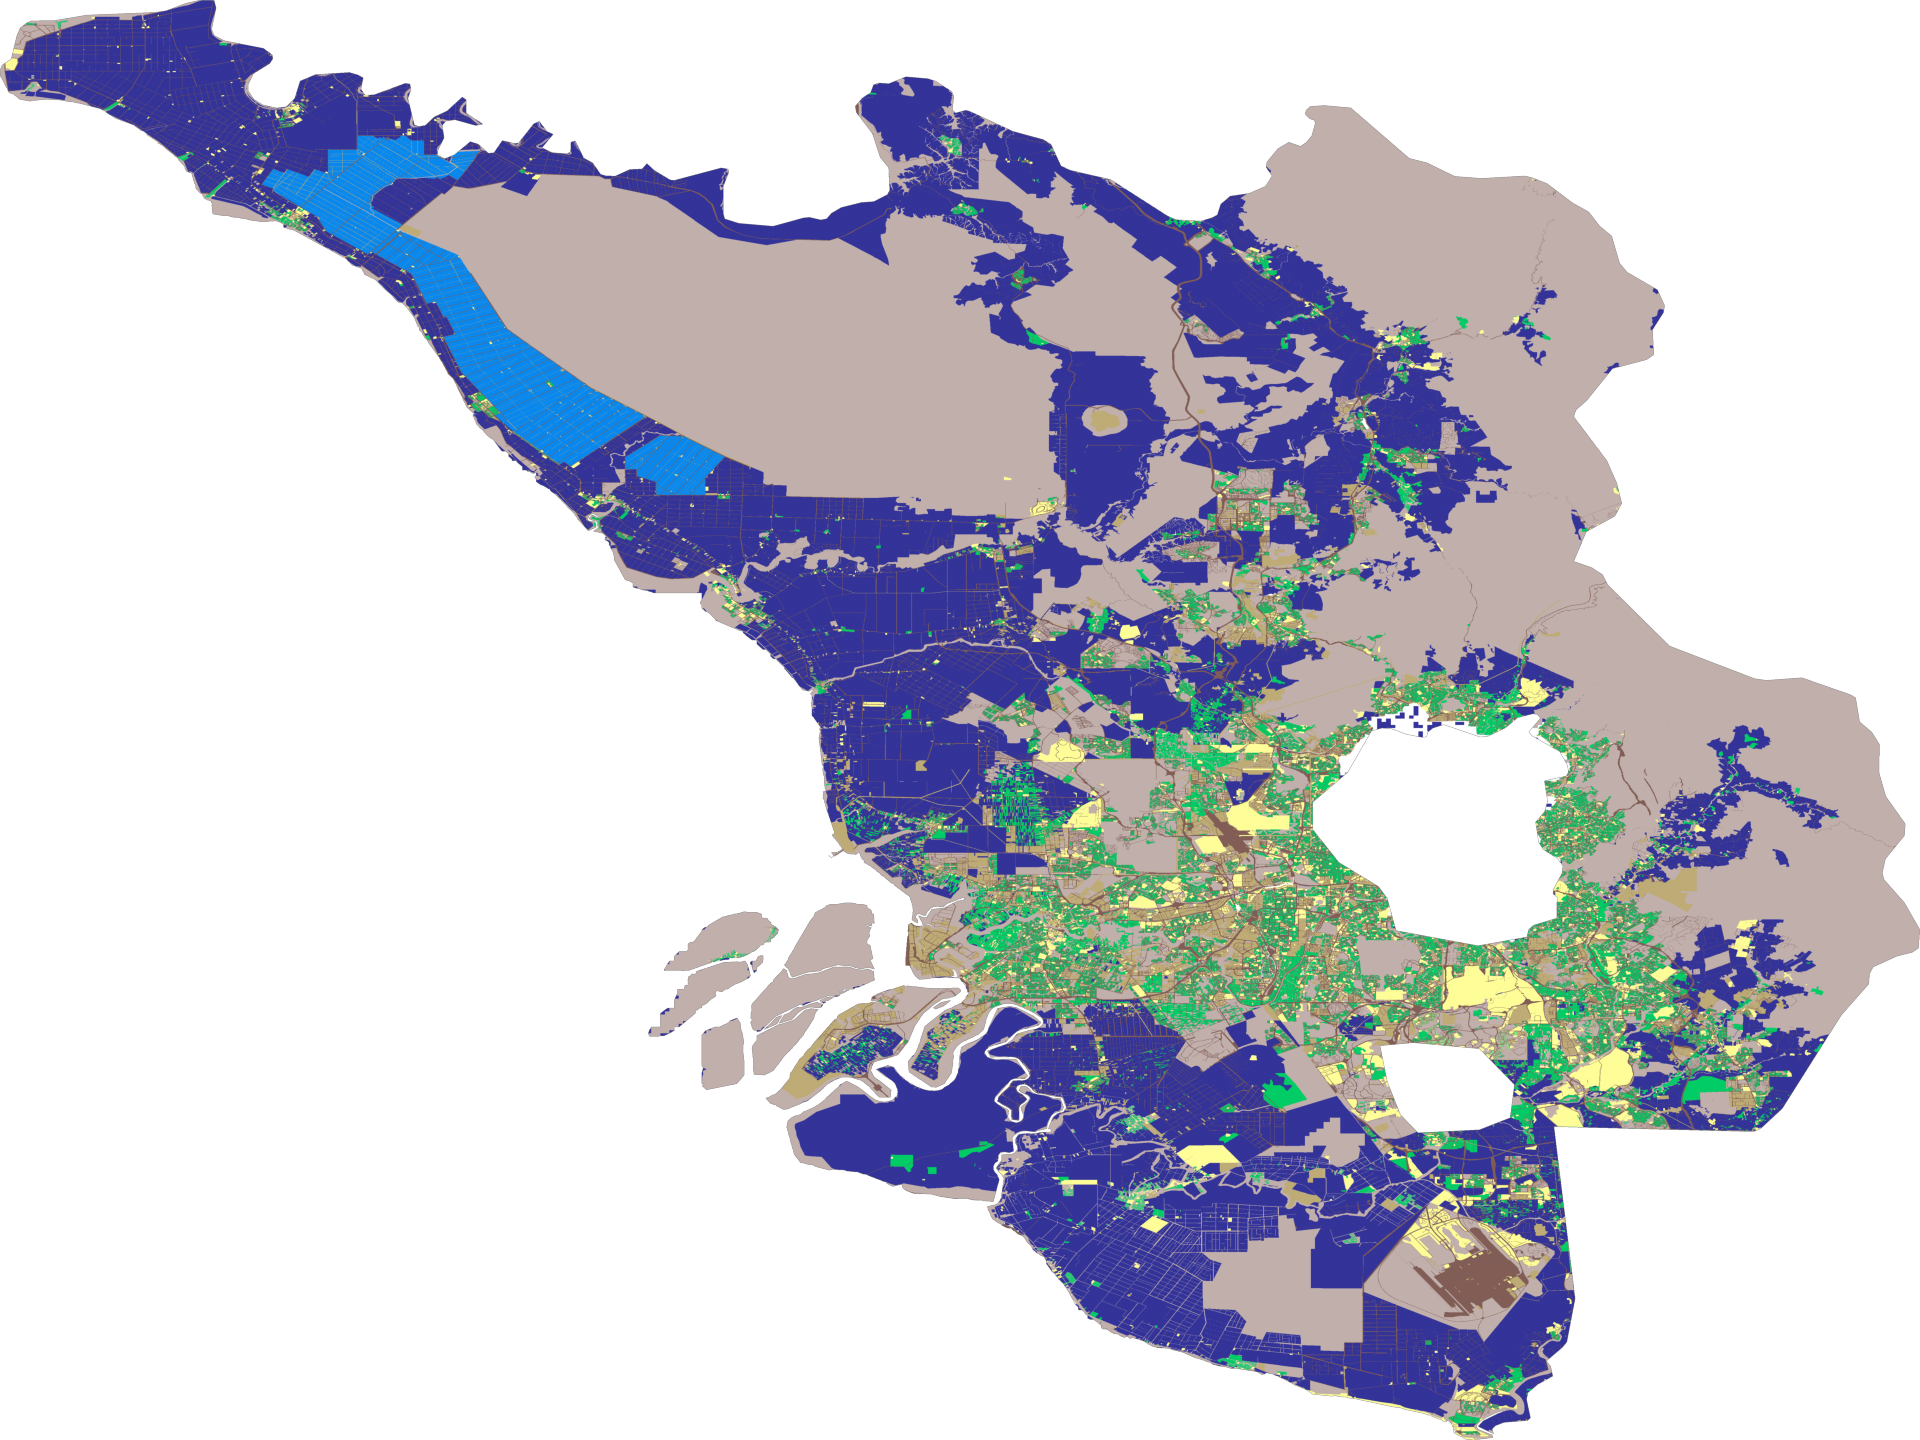
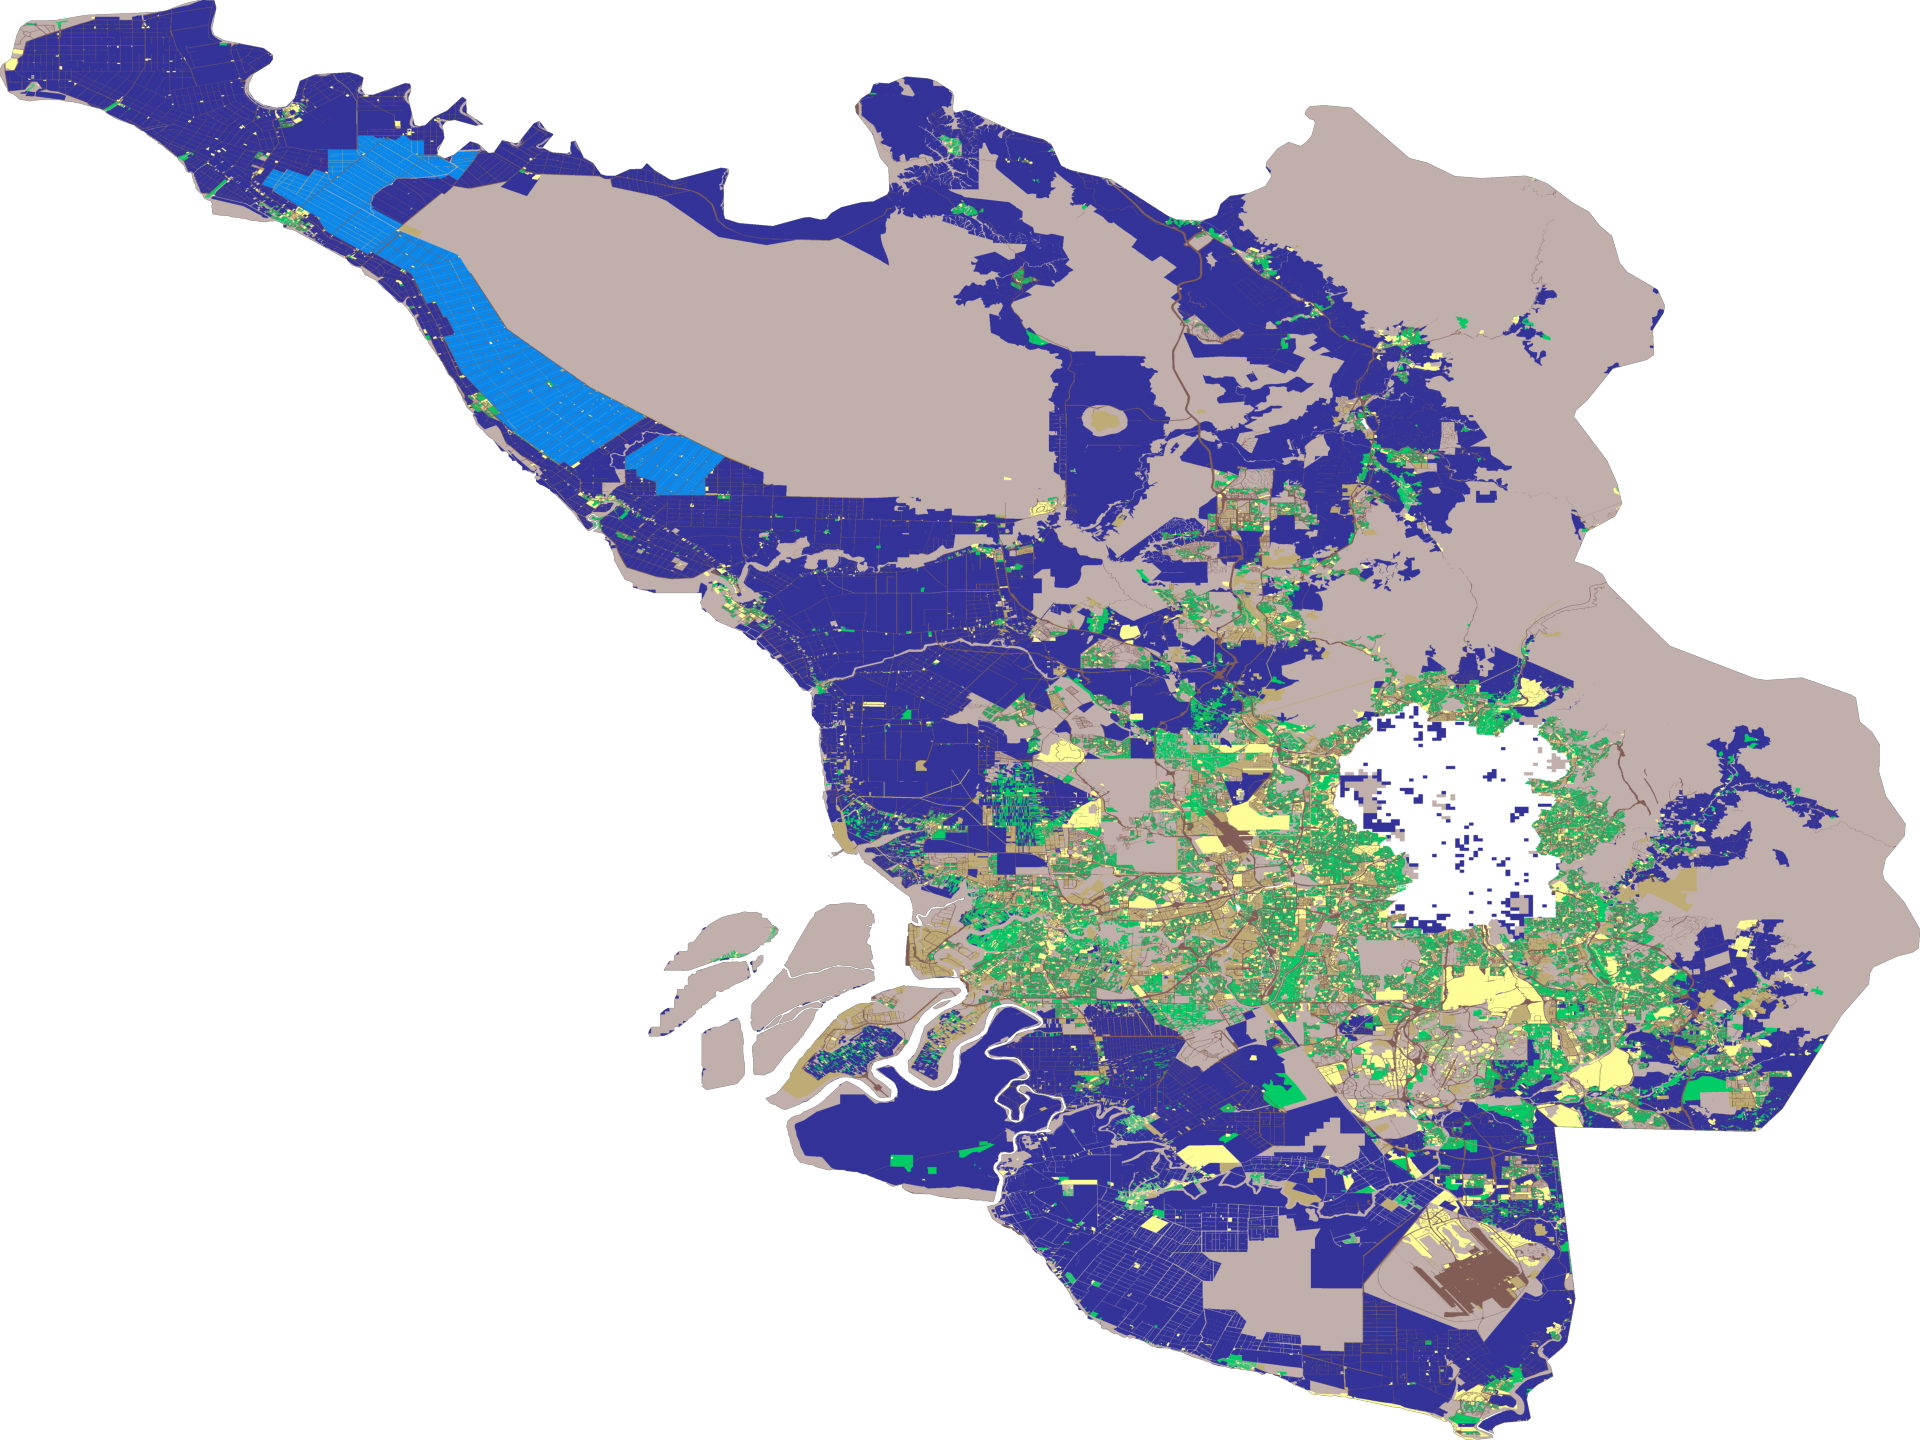
Layer features

Changed region(s): [[0.6875, 0.5, 0.8125, 0.6562], [0.7188, 0.7188, 0.8125, 0.8125]]

diff --git a/backend/utils/selangor_clipper.py b/backend/utils/selangor_clipper.py
@@ -4,37 +4,35 @@ from rasterio.mask import mask
 from pathlib import Path
 import json
 
-# Code for processing raw population and landuse datat to malaysia
-
+# Setup Directory Paths
 DATA_DIR = Path("data")
-
-# go up one folder, then into "data"
+# Use the "full" boundary file you just created
 json_path = DATA_DIR / "processed" / "selangor_boundary.geojson"
 population_path = DATA_DIR / "raw" / "population.tif"
 landuse_path = DATA_DIR / "raw" / "landuse.tif"
 
-# === Load Selangor boundary ===
+# Create output directory
+output_dir = DATA_DIR / "processed"
+output_dir.mkdir(parents=True, exist_ok=True)
+
+# === Load the pre-processed "Solid" Boundary ===
 boundary = gpd.read_file(json_path)
 
-# Filter for Selangor AND the Federal Territories (KL and Putrajaya)
-# Note: Check your GeoJSON 'NAME_1' values; they are usually 'Selangor', 
-# 'Kuala Lumpur', and 'Putrajaya'
-target_areas = ["Selangor", "Kuala Lumpur", "Putrajaya"]
-boundary = boundary[boundary['NAME_1'].isin(target_areas)]
-
-# GADM sometimes includes multiple polygons; dissolve into one
-boundary = boundary.dissolve(by="NAME_1")
-
-# Convert boundary geometry to GeoJSON format for rasterio
-geojson_geom = [json.loads(boundary.to_json())["features"][0]["geometry"]]
-
 # === Function to clip raster ===
-def clip_raster(input_tif, output_tif, geometry):
+def clip_raster(input_tif, output_tif, boundary_gdf):
     with rasterio.open(input_tif) as src:
-        out_image, out_transform = mask(src, geometry, crop=True)
+        # IMPORTANT: Ensure boundary CRS matches the TIF CRS (e.g., EPSG:4326)
+        if boundary_gdf.crs != src.crs:
+            boundary_gdf = boundary_gdf.to_crs(src.crs)
+        
+        # Convert geometry to GeoJSON format for masking
+        geoms = [json.loads(boundary_gdf.to_json())["features"][0]["geometry"]]
+        
+        # Clip the raster
+        # all_touched=True ensures small pixels at the edge of KL/Selangor aren't dropped
+        out_image, out_transform = mask(src, geoms, crop=True, all_touched=True)
+        
         out_meta = src.meta.copy()
-
-        # Update metadata
         out_meta.update({
             "driver": "GTiff",
             "height": out_image.shape[1],
@@ -45,8 +43,11 @@ def clip_raster(input_tif, output_tif, geometry):
         with rasterio.open(output_tif, "w", **out_meta) as dest:
             dest.write(out_image)
 
-    print(f" Clipped raster saved: {output_tif}")
+    print(f"✅ Clipped raster saved: {output_tif}")
 
-# === Clip both layers ===
-clip_raster(population_path, "population_selangor.tif", geojson_geom)
-clip_raster(landuse_path, "landuse_selangor.tif", geojson_geom)
+# === Run the clipping ===
+pop_output = output_dir / "population_selangor.tif"
+land_output = output_dir / "landuse_selangor.tif"
+
+clip_raster(population_path, pop_output, boundary)
+clip_raster(landuse_path, land_output, boundary)

diff --git a/backend/utils/boundary_filter.py b/backend/utils/boundary_filter.py
@@ -1,17 +1,28 @@
 from pathlib import Path
 import geopandas as gpd
 
-# get current script directory
-current_dir = Path(__file__).resolve().parent
+# 1. Setup paths
+DATA_DIR = Path("data")
+json_path = DATA_DIR  / "raw" / "gadm41_MYS_1.json"
 
-# go up one folder, then into "data"
-json_path = current_dir.parent / "data" / "gadm41_MYS_1.json"
-
-# Load Selangor boundary (Level 1)
+# 2. Load the full Malaysia boundary file
 gdf = gpd.read_file(json_path)
 
-# Filter only Selangor
-selangor = gdf[gdf["NAME_1"] == "Selangor"]
+# 3. Define the areas we need to create a solid Greater Selangor region
+# Based on your previous print output: 'KualaLumpur' (no space) and 'Putrajaya'
+target_areas = ["Selangor", "KualaLumpur", "Putrajaya"]
 
-# Save filtered boundary
-selangor.to_file("selangor_boundary.geojson", driver="GeoJSON")
+# 4. Filter the GeoDataFrame for these three regions
+greater_selangor = gdf[gdf["NAME_1"].isin(target_areas)]
+
+# 5. Dissolve them into a single solid polygon 
+# This is the crucial step to remove the internal "donut hole" borders
+greater_selangor_dissolved = greater_selangor.dissolve()
+
+# 6. Save the new solid boundary
+# We use the dissolved version so the clipping tool treats it as one shape
+output_path = DATA_DIR / "processed"/"selangor_boundary.geojson"
+greater_selangor_dissolved.to_file(output_path, driver="GeoJSON")
+
+print(f"Successfully saved solid boundary to {output_path}")
+print(f"Regions included: {greater_selangor['NAME_1'].unique()}")

diff --git a/backend/test.py b/backend/test.py
@@ -1,11 +1,18 @@
-import rasterio
+import geopandas as gpd
+from pathlib import Path
 
-for path in ["data/population.tif", "data/landuse.tif"]:
-    with rasterio.open(path) as src:
-        print(f"File: {path}")
-        print("CRS:", src.crs)
-        print("Bounds:", src.bounds)
-        print("Resolution:", src.res)
-        print("Nodata:", src.nodata)
-        print("Band count:", src.count)
-        print()
+# Load your boundary file
+DATA_DIR = Path("data")
+
+# Load the full Malaysia file instead
+malaysia_json = DATA_DIR / "raw" / "gadm41_MYS_1.json" 
+boundary = gpd.read_file(malaysia_json)
+
+# Now these names will actually exist in the file
+target_areas = ["Selangor", "W.P. Kuala Lumpur", "W.P. Putrajaya"]
+boundary_subset = boundary[boundary['NAME_1'].isin(target_areas)]
+
+# Merge them into one solid mask
+combined_boundary = boundary_subset.dissolve()
+
+print(boundary[['NAME_1', 'TYPE_1']])

diff --git a/backend/routes/prediction.py b/backend/routes/prediction.py
@@ -1,4 +1,4 @@
-from fastapi import APIRouter, HTTPException
+from fastapi import APIRouter
 from models.model import IncineratorPredictor
 from utils.feature_extraction import extract_features_from_latlon
 from utils.analysis import get_site_insights
